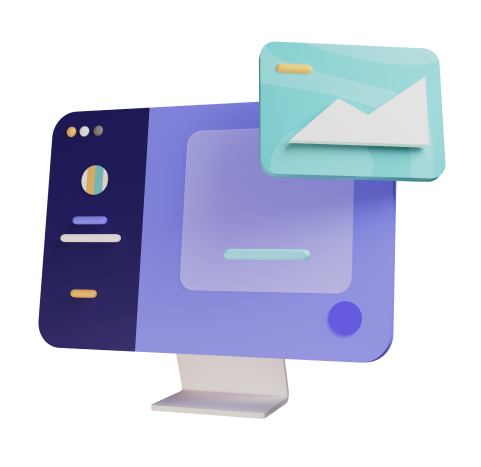
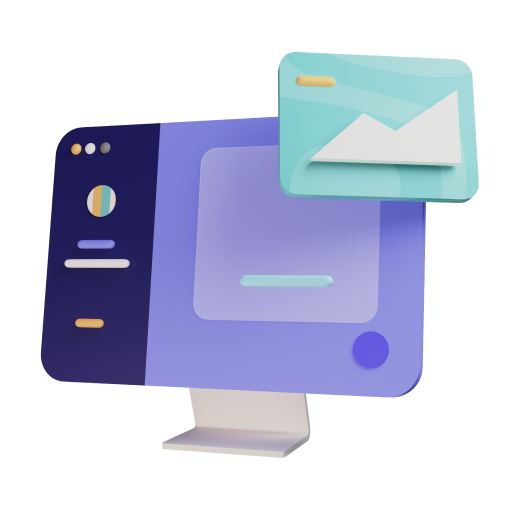
added optimized assets and additional font

diff --git a/src/components/Container.jsx b/src/components/Container.jsx
@@ -1,7 +1,25 @@
+import leftHeroImg from "../assets/images/HeroImg";
+
 const Container = () => {
     return (
         <main className="MainContainer">
-            <section className="HeroSection"></section>
+            <section className="HeroSection">
+                <div className="TopContent">
+                    <div className="LeftSideContent">
+                        <h1 className="SiteHeadingOne">discover and collect rate NFTs</h1>
+                        <p className="SiteHeroParagraph">the most secure marketplace for buying and selling unique crypto assets</p>
+                        <button className="CTAButton">BUY NFTS</button>
+                        <button className="SellNFTsCTAButton">SELL NFTS</button>
+                    </div>
+                    <div className="RightSideContent"></div>
+                </div>
+                <div className="FeaturedOnContent">
+                    <p className="FeaturedOnTitle">Featured on</p>
+                    <div className="FeaturedOnLogos">
+
+                    </div>
+                </div>
+            </section>
             <section className="AnalyticsSection"></section>
             <section className="AppSection"></section>
             <section className="SellNFTSection"></section>

diff --git a/src/scss/_components/_container.scss b/src/scss/_components/_container.scss
@@ -1,0 +1,11 @@
+.MainContainer {
+    display: flex;
+    flex-direction: column;
+    > * {
+        display: flex;
+    }
+}
+
+.HeroSection {
+    flex-direction: column;
+}
